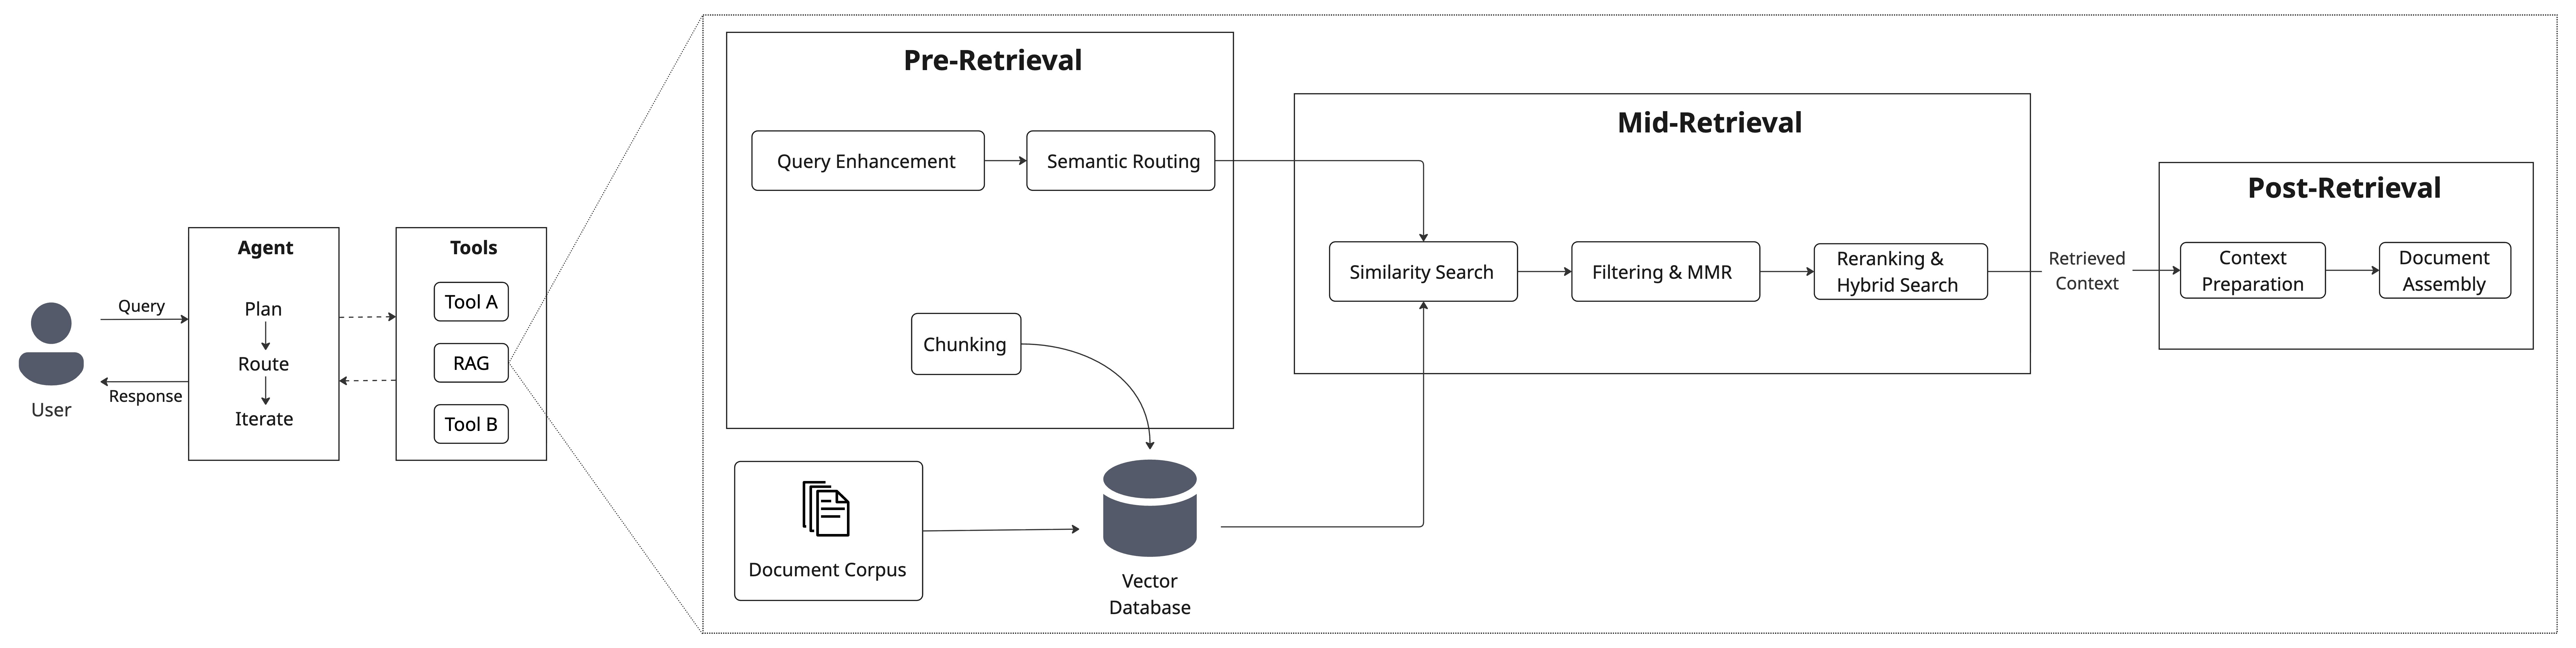
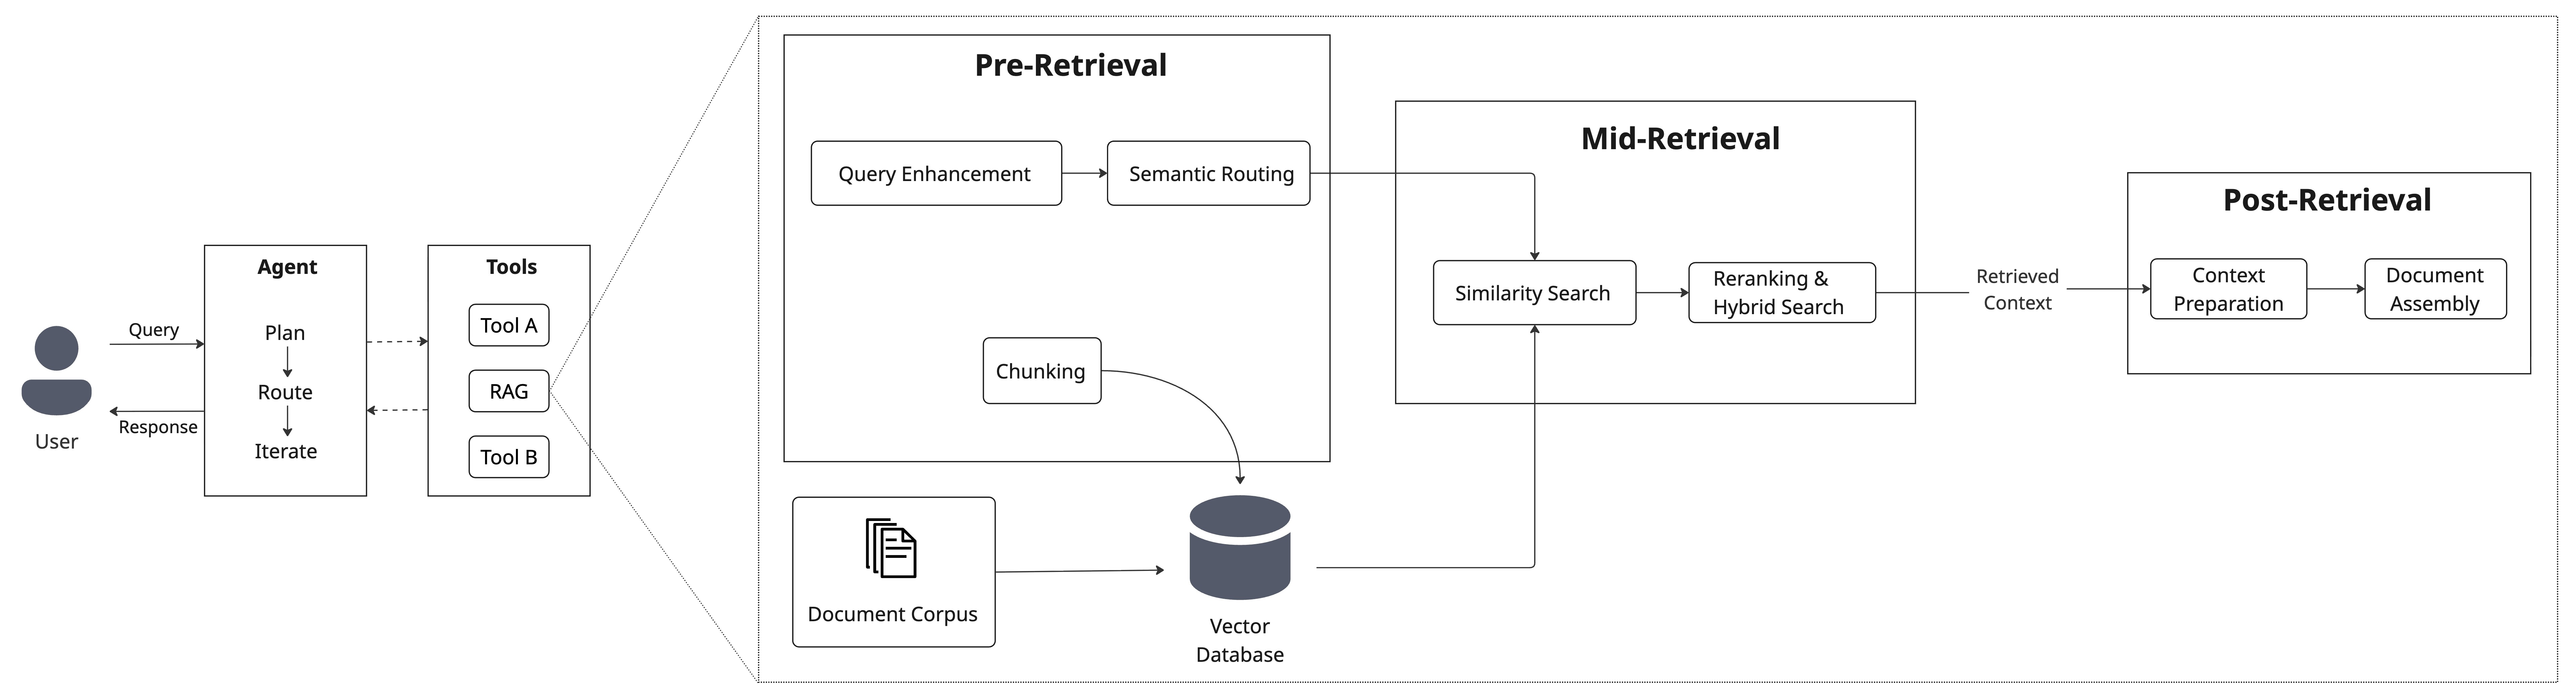
Merge pull request #15 from mahimaarora/scipy_changes
Markdown updates

Pull request: Markdown updates

diff --git a/retrieval_playground/src/post_retrieval/knowledge_refinement.py b/retrieval_playground/src/post_retrieval/knowledge_refinement.py
@@ -36,7 +36,7 @@ class KnowledgeRefiner:
             (
                 "system",
                 """You judge whether a single sentence from a retrieved passage helps answer
-the user's question. Ignore stylistic filler and tangential examples.""",
+the user's question. Even if they slightly relate to the question mark them relevant. Ignore stylistic filler and tangential examples.""",
             ),
             (
                 "user",